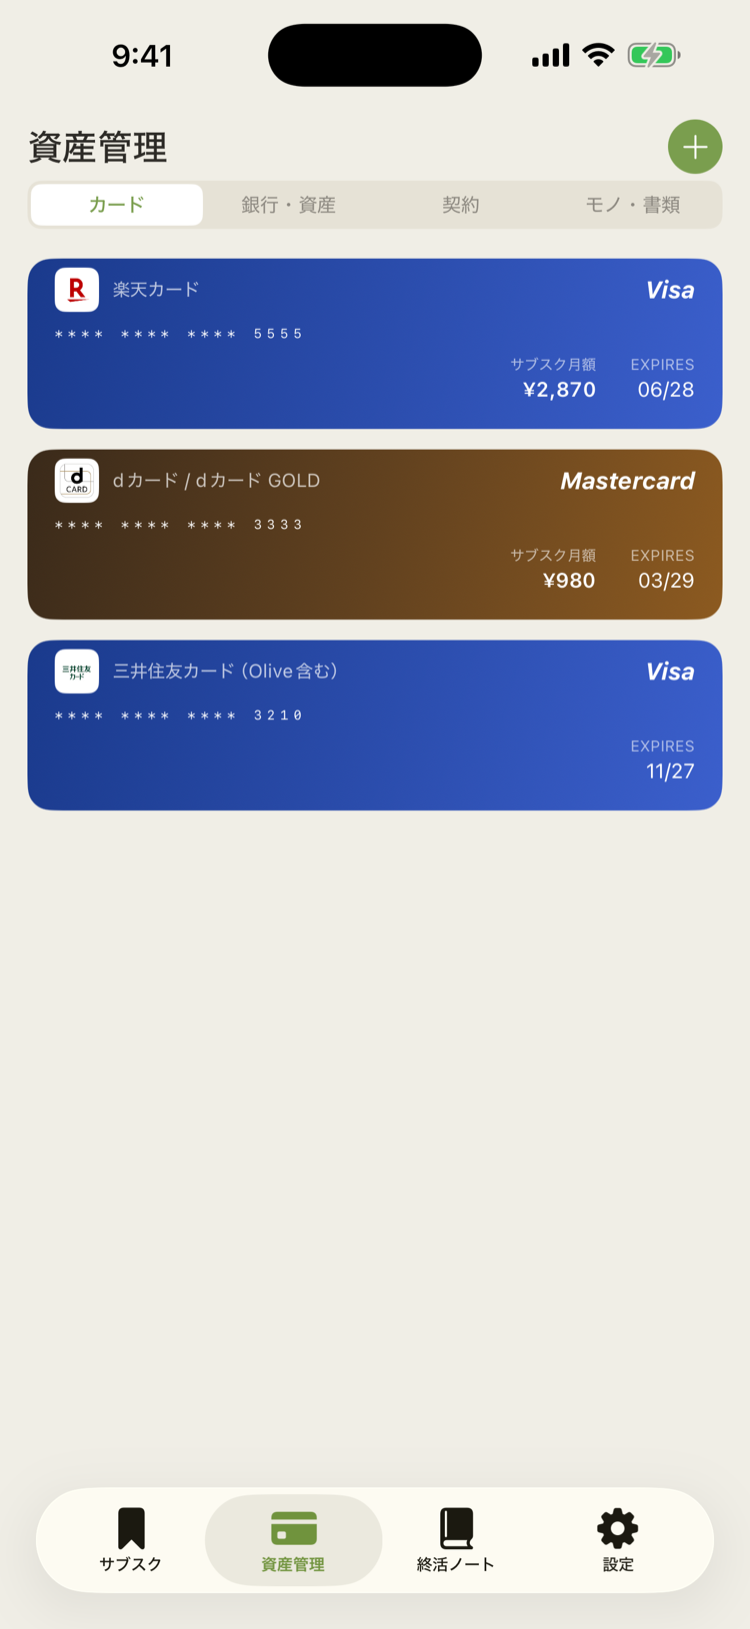
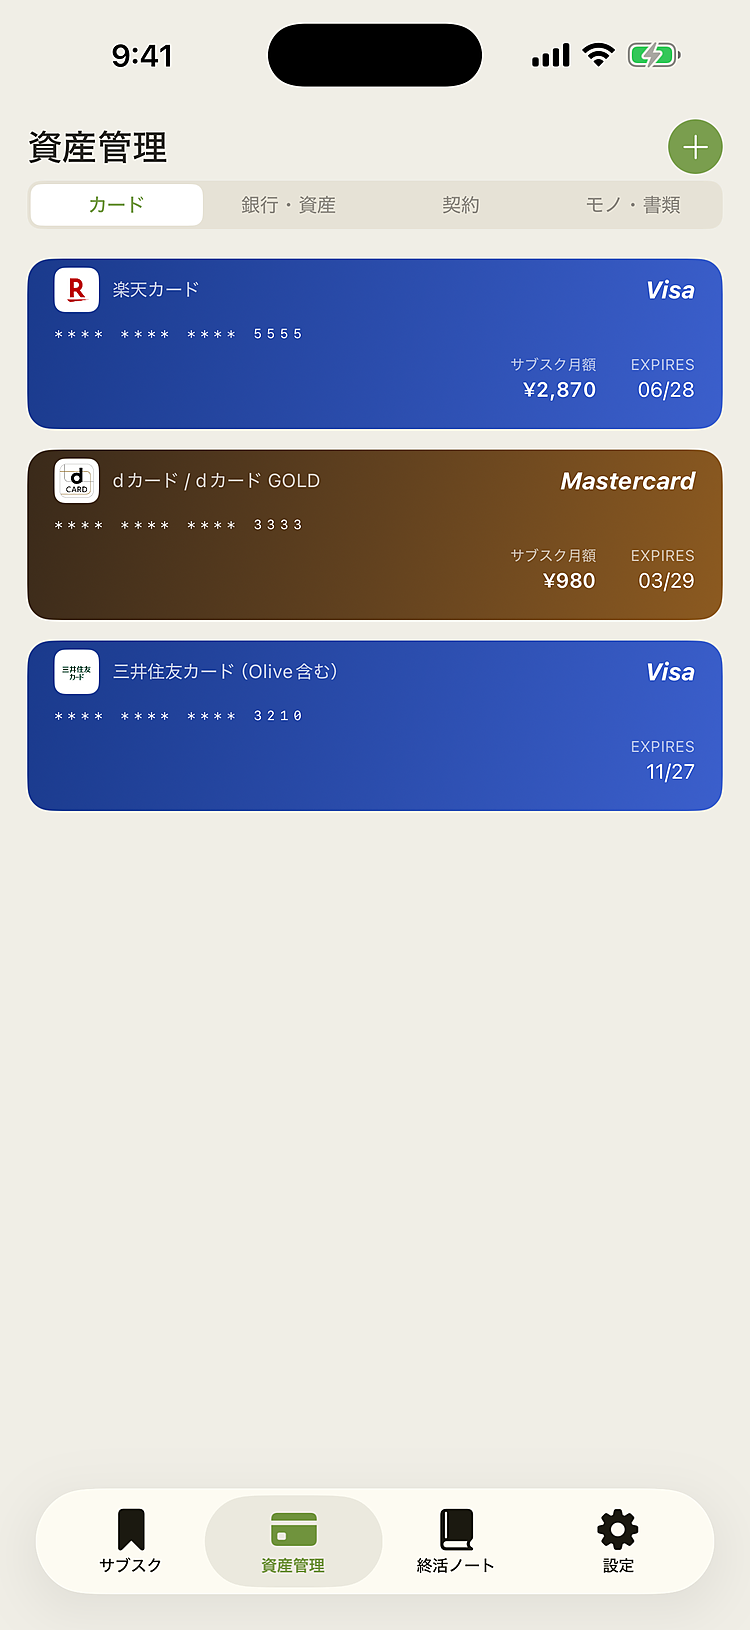
fix(images): Lanczos＋アンシャープで再生成＋画像URLのキャッシュ無効化（?v=2）
Kentaro 指摘＝「スクショの文字ってこんなに不鮮明なの？」への2系統の手当て。

① キャッシュ疑い（最有力）＝幅345のぼやけ版を配信していた時間帯
   （15:07〜15:57）に閲覧したブラウザは、URL が同名のため古い画像を
   使い続ける。keepy.css は ?v= で無効化したが**画像はしていなかった**
   → images/ の参照15箇所に ?v=2 を付与し強制的に新画像へ。

② 生成品質＝sips は Lanczos 相当のシャープさが出ない。Pillow の
   LANCZOS＋UnsharpMask(radius 1.0 / 80%) で原寸から再生成
   ＝UI スクショの文字エッジが立つ定番処方。全11枚。

サイズ＝images/ 3.7MB → 3.1MB（原寸 6.9MB から 55% 削減・当初目的も維持）。
高さ 1629→1630（丸め差）に伴い width/height 属性 15箇所を同期。

検証＝機械3種（歪み 0・3x 充足 0 不足・枠スタイル 1 種）すべて合格。

diff --git a/features.html b/features.html
@@ -355,13 +355,13 @@
   <!-- ヒーローモックアップ（実際のスクリーンショット3画面） -->
   <div style="display:flex; gap:16px; justify-content:center; align-items:center; flex-wrap:wrap;">
     <div class="phone">
-      <img width="750" height="1629" src="images/ss_03_schedule.png" alt="支出レポート" loading="lazy">
+      <img width="750" height="1630" src="images/ss_03_schedule.png?v=2" alt="支出レポート" loading="lazy">
     </div>
     <div class="phone">
-      <img width="750" height="1629" src="images/ss_06_family_subscriptions.png" alt="サブスク一覧（家族モード）" loading="lazy">
+      <img width="750" height="1630" src="images/ss_06_family_subscriptions.png?v=2" alt="サブスク一覧（家族モード）" loading="lazy">
     </div>
     <div class="phone">
-      <img width="750" height="1629" src="images/ss_checklist.png" alt="手続きチェックリスト" loading="lazy">
+      <img width="750" height="1630" src="images/ss_checklist.png?v=2" alt="手続きチェックリスト" loading="lazy">
     </div>
   </div>
 </section>
@@ -412,7 +412,7 @@
   </div>
   <div class="phone-wrap">
     <div class="phone">
-      <img width="750" height="1629" src="images/ss_checklist_home.png" alt="はじめる準備チェックリスト" loading="lazy">
+      <img width="750" height="1630" src="images/ss_checklist_home.png?v=2" alt="はじめる準備チェックリスト" loading="lazy">
     </div>
   </div>
 </section>
@@ -454,7 +454,7 @@
   </div>
   <div class="phone-wrap">
     <div class="phone">
-      <img width="750" height="1629" src="images/ss_01_list.png" alt="サブスク一覧画面" loading="lazy">
+      <img width="750" height="1630" src="images/ss_01_list.png?v=2" alt="サブスク一覧画面" loading="lazy">
     </div>
   </div>
 </section>
@@ -492,7 +492,7 @@
   </div>
   <div class="phone-wrap">
     <div class="phone">
-      <img width="750" height="1629" src="images/ss_03_schedule.png" alt="支出レポート画面（見直し候補つき）" loading="lazy">
+      <img width="750" height="1630" src="images/ss_03_schedule.png?v=2" alt="支出レポート画面（見直し候補つき）" loading="lazy">
     </div>
   </div>
 </section>
@@ -526,7 +526,7 @@
   </div>
   <div class="phone-wrap">
     <div class="phone">
-      <img width="750" height="1629" src="images/ss_monthly_summary.png" alt="月次まとめ画面。支払い合計・カテゴリ内訳・見直しのヒント・年間換算" loading="lazy">
+      <img width="750" height="1630" src="images/ss_monthly_summary.png?v=2" alt="月次まとめ画面。支払い合計・カテゴリ内訳・見直しのヒント・年間換算" loading="lazy">
     </div>
   </div>
 </section>
@@ -556,7 +556,7 @@
   </div>
   <div class="phone-wrap">
     <div class="phone">
-      <img width="750" height="1629" src="images/ss_widgets_home.png" alt="ホーム画面のKeepyウィジェット。今月の合計・進捗と次の支払い" loading="lazy">
+      <img width="750" height="1630" src="images/ss_widgets_home.png?v=2" alt="ホーム画面のKeepyウィジェット。今月の合計・進捗と次の支払い" loading="lazy">
     </div>
   </div>
 </section>
@@ -590,7 +590,7 @@
   </div>
   <div class="phone-wrap">
     <div class="phone">
-      <img width="750" height="1629" src="images/ss_notification.jpg" alt="ロック画面に届く更新3日前の通知" loading="lazy">
+      <img width="750" height="1630" src="images/ss_notification.jpg?v=2" alt="ロック画面に届く更新3日前の通知" loading="lazy">
     </div>
   </div>
 </section>
@@ -620,7 +620,7 @@
   </div>
   <div class="phone-wrap">
     <div class="phone">
-      <img width="750" height="1629" src="images/ss_cards.png" alt="カード一覧。券面ごとにサブスク月額の合計を表示" loading="lazy">
+      <img width="750" height="1630" src="images/ss_cards.png?v=2" alt="カード一覧。券面ごとにサブスク月額の合計を表示" loading="lazy">
     </div>
   </div>
 </section>
@@ -658,7 +658,7 @@
   </div>
   <div class="phone-wrap">
     <div class="phone">
-      <img width="750" height="1629" src="images/ss_04_ending.png" alt="終活ノート画面" loading="lazy">
+      <img width="750" height="1630" src="images/ss_04_ending.png?v=2" alt="終活ノート画面" loading="lazy">
     </div>
   </div>
 </section>
@@ -701,7 +701,7 @@
   </div>
   <div class="phone-wrap">
     <div class="phone">
-      <img width="750" height="1629" src="images/ss_checklist.png" alt="家族モード・手続きチェックリスト画面" loading="lazy">
+      <img width="750" height="1630" src="images/ss_checklist.png?v=2" alt="家族モード・手続きチェックリスト画面" loading="lazy">
     </div>
   </div>
 </section>

diff --git a/index.html b/index.html
@@ -288,13 +288,13 @@
   <div class="screenshots">
     <div class="screenshots-scroll">
       <div class="phone">
-        <img width="750" height="1629" src="images/ss_01_list.png" alt="サブスク一覧" loading="lazy">
+        <img width="750" height="1630" src="images/ss_01_list.png?v=2" alt="サブスク一覧" loading="lazy">
       </div>
       <div class="phone">
-        <img width="750" height="1629" src="images/ss_02_detail.png" alt="サブスク詳細" loading="lazy">
+        <img width="750" height="1630" src="images/ss_02_detail.png?v=2" alt="サブスク詳細" loading="lazy">
       </div>
       <div class="phone">
-        <img width="750" height="1629" src="images/ss_04_ending.png" alt="終活ノート" loading="lazy">
+        <img width="750" height="1630" src="images/ss_04_ending.png?v=2" alt="終活ノート" loading="lazy">
       </div>
     </div>
   </div>
